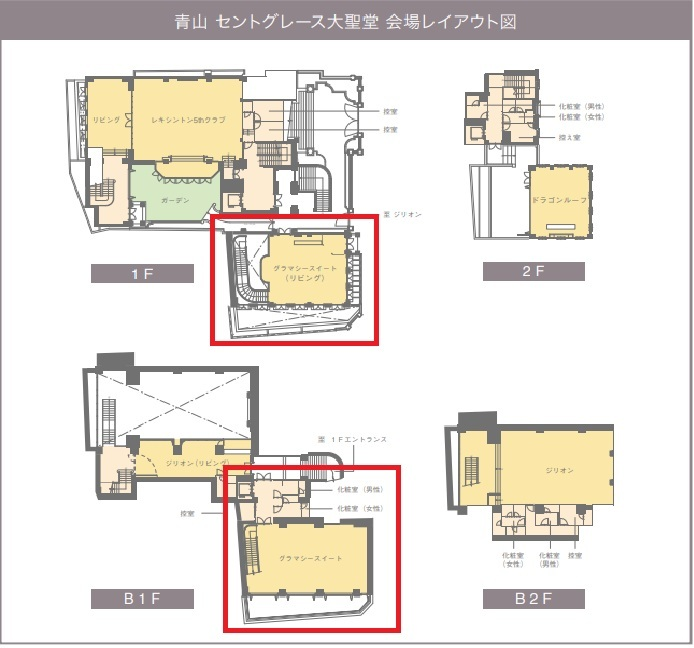
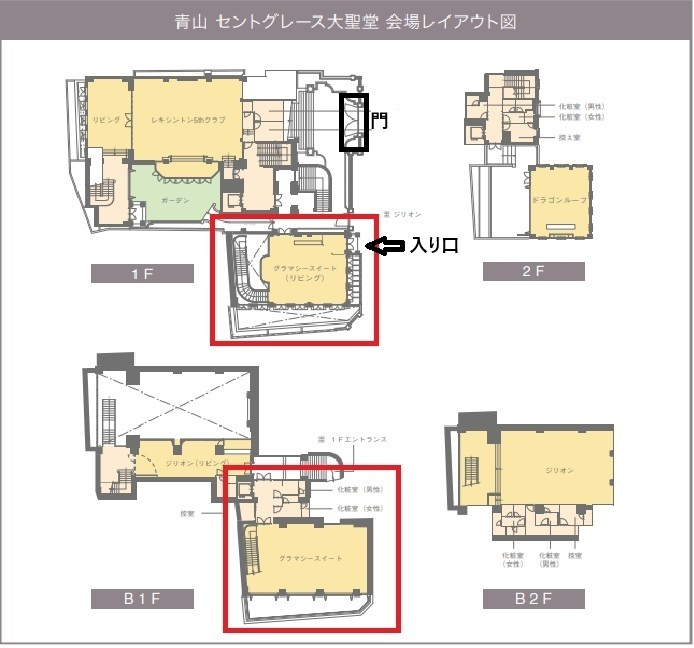
文言修正

Changed region(s): [[0.4841, 0.1235, 0.5749, 0.2469], [0.5144, 0.3704, 0.6657, 0.4012]]

diff --git a/src/pages/ProfilePage.tsx b/src/pages/ProfilePage.tsx
@@ -98,11 +98,9 @@ const ProfilePage: React.FC = () => {
             }}
           />
 
-          <p style={{ margin: '0 0 8px', color: '#555' }}>・名前：中島 瞳</p>
+          <p style={{ margin: '0 0 8px', color: '#555' }}>・名前：秋山 瞳</p>
           <p style={{ margin: '0 0 8px', color: '#555' }}>・出身：足立区</p>
-          <p style={{ margin: '0 0 8px', color: '#555' }}>
-            ・趣味：旅行
-          </p>
+          <p style={{ margin: '0 0 8px', color: '#555' }}>・趣味：推し活</p>
           <p style={{ margin: 0, color: '#555' }}>
             ・性格：明るくて笑顔が多いタイプ
           </p>
@@ -124,13 +122,13 @@ const ProfilePage: React.FC = () => {
             backgroundColor: '#f0f0f0',
           }}
         >
-          <h3 style={{ marginTop: 0 }}>📖 2人のストーリー</h3>
+          <h3 style={{ marginTop: 0 }}>📖 出会いから今日まで</h3>
 
           <div style={{ borderLeft: '3px solid #4F46E5', paddingLeft: '12px' }}>
             <div style={{ margin: '12px 0' }}>
               <strong>2023年 7月 初デート</strong>
               <p style={{ margin: '4px 0', color: '#555' }}>
-                会話の波長がとても合って、不思議と緊張せずに過ごせました。
+                会話の波長がとても合い、初めてとは思えないほど自然に過ごすことができました。
               </p>
             </div>
 
@@ -144,14 +142,16 @@ const ProfilePage: React.FC = () => {
             <div style={{ margin: '12px 0' }}>
               <strong>2025年 8月 プロポーズ</strong>
               <p style={{ margin: '4px 0', color: '#555' }}>
-                お互いに気を張らずに自然体でいられる関係になり、これから先も隣で歩んでいきたいと思いました。
+                お互いに気を張らずに自然体でいられる関係になり、これから先も人生を共に歩んでいきたいと思いました。
               </p>
             </div>
 
             <div style={{ margin: '12px 0' }}>
               <strong>2026年 9/26 結婚式</strong>
               <p style={{ margin: '4px 0', color: '#555' }}>
-                本日はどうぞごゆっくりお楽しみください。
+                本日はお越しいただきありがとうございます。
+                <br />
+                どうぞごゆっくりお楽しみください。
               </p>
             </div>
           </div>
@@ -177,9 +177,18 @@ const ProfilePage: React.FC = () => {
             <p style={{ fontWeight: 'bold', marginBottom: '4px' }}>
               Q. 相手のどんなところに惹かれましたか？
             </p>
-            <p style={{ margin: 0, color: '#555' }}>
-              新郎：かわいさとおもしろさを持ちつつ、真面目さも兼ね備えているところです。<br/>
-              新婦：てすと
+
+            <p style={{ margin: 0, color: '#555', display: 'flex' }}>
+              <span style={{ minWidth: '3em', fontWeight: 500 }}>新郎：</span>
+              <span>
+                かわいさやおもしろさがありながら、
+                <br />
+                物事に真剣に向き合う真面目さも兼ね備えているところです。
+              </span>
+            </p>
+            <p style={{ margin: 0, color: '#555', display: 'flex' }}>
+              <span style={{ minWidth: '3em', fontWeight: 500 }}>新婦：</span>
+              <span>てすと</span>
             </p>
           </div>
 
@@ -187,11 +196,17 @@ const ProfilePage: React.FC = () => {
             <p style={{ fontWeight: 'bold', marginBottom: '4px' }}>
               Q. 相手の「ここがすごい」と思うところは？
             </p>
-            <p style={{ margin: 0, color: '#555' }}>
-              新郎：目標を立てたら、自分で考えて行動し、それを継続して、きちんと結果も出すところです。
+            <p style={{ margin: 0, color: '#555', display: 'flex' }}>
+              <span style={{ minWidth: '3em', fontWeight: 500 }}>新郎：</span>
+              <span>
+                目標を立てると自分で考えて行動し、
+                <br />
+                それを継続して、きちんと結果につなげるところです。
+              </span>
             </p>
-            <p style={{ margin: 0, color: '#555' }}>
-              新婦：てすと
+            <p style={{ margin: 0, color: '#555', display: 'flex' }}>
+              <span style={{ minWidth: '3em', fontWeight: 500 }}>新婦：</span>
+              <span>てすと</span>
             </p>
           </div>
 
@@ -199,11 +214,23 @@ const ProfilePage: React.FC = () => {
             <p style={{ fontWeight: 'bold', marginBottom: '4px' }}>
               Q. お互いの「相手の」ちょっとした失敗エピソードは？
             </p>
-            <p style={{ margin: 0, color: '#555' }}>
-              新郎：ボトルタイプの日焼け止めを包んでいる外側のフィルムを、開け口とは違うところからパワーで剥がそうとして、結局ポンプの部分に引っかかって開けられませんでした。
+            <p style={{ margin: 0, color: '#555', display: 'flex' }}>
+              <span style={{ minWidth: '3em', fontWeight: 500 }}>新郎：</span>
+              <span>
+                コショウをミルで挽くとき、
+                <br />
+                キャップを付けたまま一生懸命ガリガリ回して
+                <br />
+                「全然出ない！」と騒いでいました。
+                <br />
+                キャップに気づいて外した瞬間、
+                <br />
+                今度はどばっと出てしまいました。
+              </span>
             </p>
-            <p style={{ margin: 0, color: '#555' }}>
-              新婦：てすと
+            <p style={{ margin: 0, color: '#555', display: 'flex' }}>
+              <span style={{ minWidth: '3em', fontWeight: 500 }}>新婦：</span>
+              <span>てすと</span>
             </p>
           </div>
 
@@ -211,11 +238,15 @@ const ProfilePage: React.FC = () => {
             <p style={{ fontWeight: 'bold', marginBottom: '4px' }}>
               Q. 結婚の決め手は？
             </p>
-            <p style={{ margin: 0, color: '#555' }}>
-              新郎：一緒に過ごす時間が居心地よく、何気ない毎日も楽しく感じられたことです。
+            <p style={{ margin: 0, color: '#555', display: 'flex' }}>
+              <span style={{ minWidth: '3em', fontWeight: 500 }}>新郎：</span>
+              <span>
+                一緒に過ごす時間がとても居心地よく、何気ない毎日も楽しく感じられたことです。
+              </span>
             </p>
-            <p style={{ margin: 0, color: '#555' }}>
-              新婦：てすと
+            <p style={{ margin: 0, color: '#555', display: 'flex' }}>
+              <span style={{ minWidth: '3em', fontWeight: 500 }}>新婦：</span>
+              <span>てすと</span>
             </p>
           </div>
 
@@ -223,11 +254,17 @@ const ProfilePage: React.FC = () => {
             <p style={{ fontWeight: 'bold', marginBottom: '4px' }}>
               Q. これから二人で大切にしたいことは？
             </p>
-            <p style={{ margin: 0, color: '#555' }}>
-              新郎：どんなときも話し合いを大切にしながら、笑顔で過ごせる関係でいることです。
+            <p style={{ margin: 0, color: '#555', display: 'flex' }}>
+              <span style={{ minWidth: '3em', fontWeight: 500 }}>新郎：</span>
+              <span>
+                どんなときも話し合いを大切にしながら、
+                <br />
+                笑顔で過ごせる関係でいることです。
+              </span>
             </p>
-            <p style={{ margin: 0, color: '#555' }}>
-              新婦：てすと
+            <p style={{ margin: 0, color: '#555', display: 'flex' }}>
+              <span style={{ minWidth: '3em', fontWeight: 500 }}>新婦：</span>
+              <span>てすと</span>
             </p>
           </div>
         </div>

diff --git a/src/pages/DrinkMenuPage.tsx b/src/pages/DrinkMenuPage.tsx
@@ -57,24 +57,7 @@ const DrinkMenuPage: React.FC = () => {
           }}
         >
           <p style={{ margin: '0 0 8px' }}>
-            🥂 <strong>碧 ハイボール</strong>
-          </p>
-          <p style={{ margin: 0, color: '#555', fontSize: '14px' }}>
-            食事にもデザートにも合う完璧なハイボール。
-          </p>
-        </div>
-
-        <div
-          style={{
-            background: '#fff',
-            padding: '16px',
-            borderRadius: '12px',
-            boxShadow: '0 2px 6px rgba(0,0,0,0.1)',
-            marginBottom: '20px',
-          }}
-        >
-          <p style={{ margin: '0 0 8px' }}>
-            🍶 <strong>田酒</strong>
+            <strong>D（新郎おすすめ）</strong>
           </p>
           <p style={{ margin: 0, color: '#555', fontSize: '14px' }}>
             水のように飲める日本酒。
@@ -91,7 +74,7 @@ const DrinkMenuPage: React.FC = () => {
           }}
         >
           <p style={{ margin: '0 0 8px' }}>
-            🍹 <strong>鳥飼 ソーダ割</strong>
+            <strong>T（新婦おすすめ）</strong>
           </p>
           <p style={{ margin: 0, color: '#555', fontSize: '14px' }}>
             米焼酎とは思えないフルーティーさ。
@@ -124,7 +107,7 @@ const DrinkMenuPage: React.FC = () => {
         </ul>
 
         <p style={{ marginTop: '30px', fontSize: '13px', color: '#666' }}>
-          ※田酒、鳥飼、碧については、持ち込みのため品切れになる可能性があります。
+          ※おすすめドリンクについては、持ち込みのため品切れになる可能性があります。
         </p>
       </div>
     </div>

diff --git a/src/pages/VenueInfoPage.tsx b/src/pages/VenueInfoPage.tsx
@@ -101,7 +101,7 @@ const VenueInfoPage: React.FC = () => {
           <div style={{ marginBottom: '10px' }}>
             <p style={{ fontWeight: 700, margin: '0 0 6px 0' }}>写真撮影</p>
             <p style={{ margin: 0, color: '#444' }}>
-              挙式中：撮影NG（会場規則に準拠）<br/>
+              挙式中：撮影OK？（会場規則に準拠）<br/>
               披露宴中：撮影OK（SNS投稿は控えめにお願いします）
             </p>
           </div>